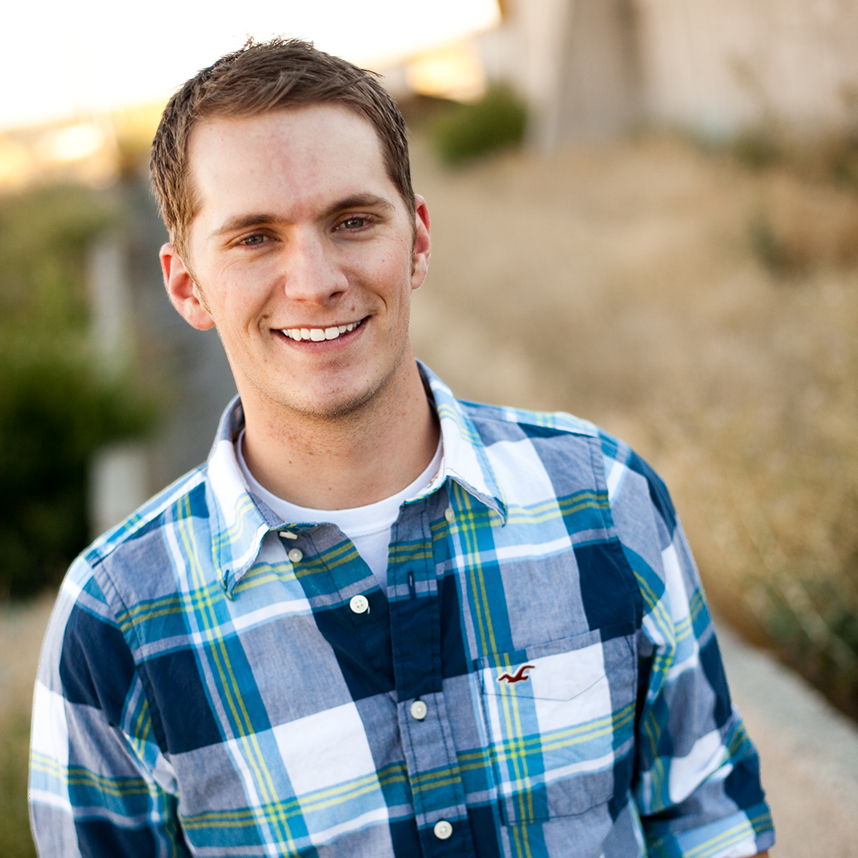
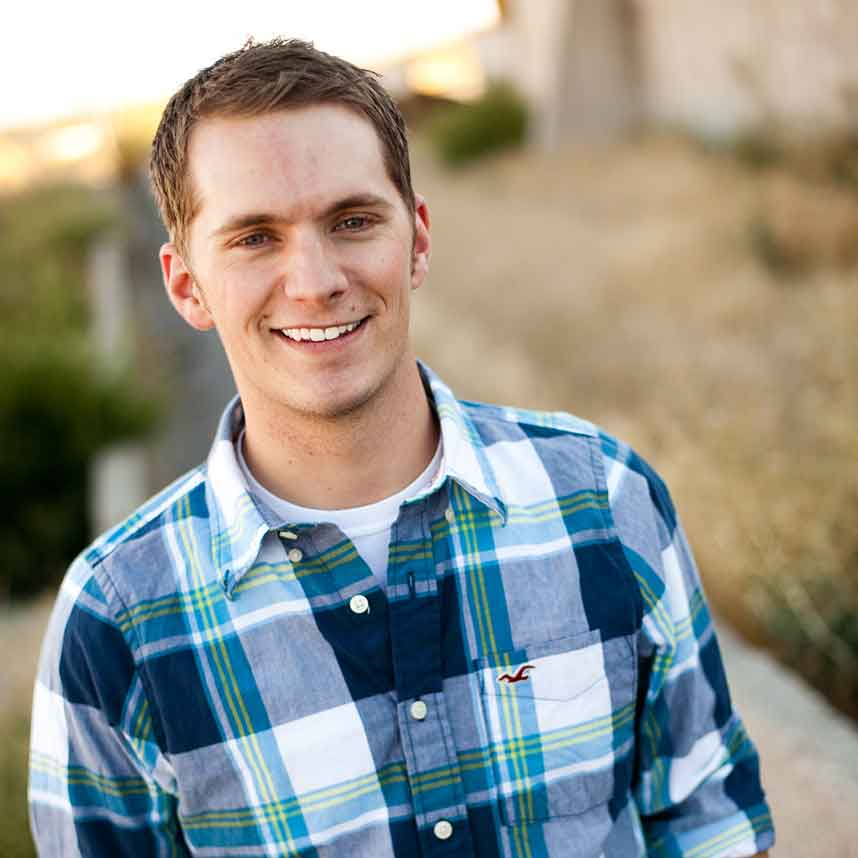
Optomize

diff --git a/index.html b/index.html
@@ -87,32 +87,32 @@
 	    			
 	    			<ul class="large-block-grid-2 medium-block-grid-2 small-block-grid-1 my-projects">
 	    				<li>
-	    					<img src="img/mathco.png" alt="Placholder Image">
+	    					<img src="img/mathco.jpg" alt="Placholder Image">
 	    					<h5><strong>TheMathCo (AcerPlacer)</strong></h5>
 	    					<p>WordPress site that also required a small scale API for some front end interaction, built with Laravel</p>
 	    				</li>
 	    				<li>
-	    					<img src="img/advancedcfo.png" alt="Placholder Image">
+	    					<img src="img/advancedcfo.jpg" alt="Placholder Image">
 								<h5><strong>AdvancedCFO</strong></h5>
 								<p>WordPress site that was built using the Bedrock Application Framework, Foundation, Gulp & Sass</p>
 	    				</li>
 	    				<li>
-	    					<img src="img/steton.png" alt="Placholder Image">
+	    					<img src="img/steton.jpg" alt="Placholder Image">
 	    					<h5><strong>Steton</strong></h5>
 	    					<p>WordPress site that utilizes the Custom Post Type feature. Built with Foundation, Gulp & Sass.</p>
 	    				</li>
 	    				<li>
-	    					<img src="img/honeyville.png" alt="Placholder Image">
+	    					<img src="img/honeyville.jpg" alt="Placholder Image">
 	    					<a href="http://www.honeyville.com" target="_blank"><h5><strong>Honeyville <i class="fa fa-link"></i></strong></h5></a>
 								<p>WordPress site that utilizes the Custom Post Type feature. Built with Foundation, Gulp & Sass.</p>
 							</li>
 	    				<li>
-	    					<img src="img/allmoxy.png" alt="Placholder Image">
+	    					<img src="img/allmoxy.jpg" alt="Placholder Image">
 	    					<a href="http://www.allmoxy.com" target="_blank"><h5><strong>Allmoxy <i class="fa fa-link"></i></strong></h5></a>
 	    					<p>Advanced Landing page with an awesome user account and custom support section, completely built in Laravel with Ajax.</p>
 	    				</li>
 	    				<li>
-	    					<img src="img/camplins.png" alt="Placholder Image">
+	    					<img src="img/camplins.jpg" alt="Placholder Image">
 	    					<a href="http://www.camplins.ca" target="_blank"><h5><strong>Camplins Custom Components <i class="fa fa-link"></i></strong></h5></a>
 								<p>Landing page built with Foundation & Sass.</p>
 	    				</li>
